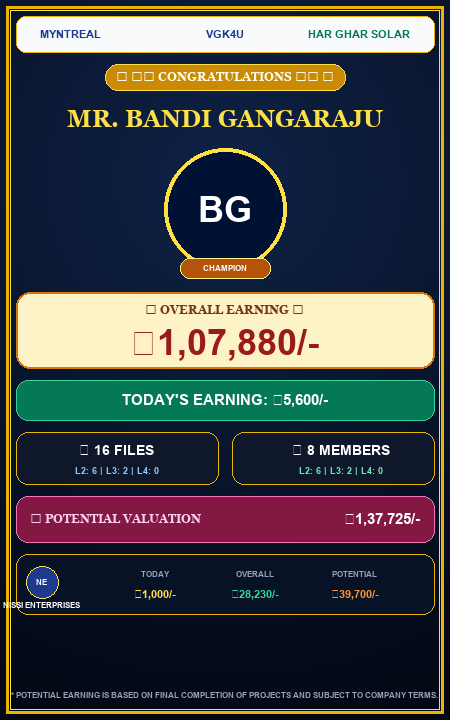
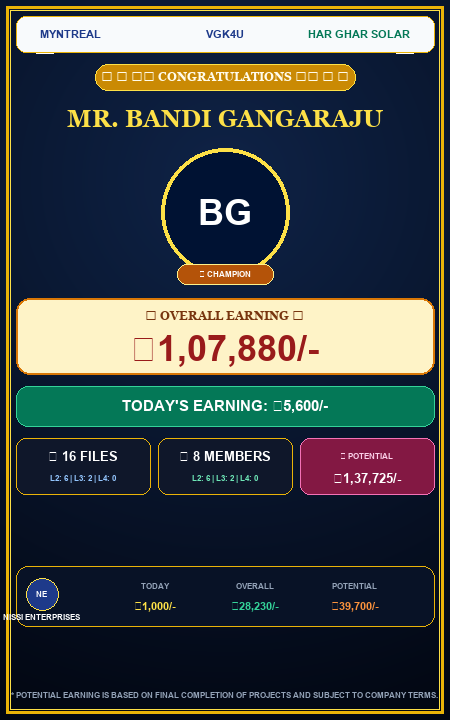
feat(poster): add SVG fireworks, celebration streamers, and 3-column metric layout with Potential Valuation beside Files and Members

diff --git a/MyntReal_Latest/frontend/staff_vgk_members.html b/MyntReal_Latest/frontend/staff_vgk_members.html
@@ -7309,7 +7309,7 @@ function _renderCommDetailTable(partnerId) {
           <div style="text-align:center"><i class="fas fa-circle-notch fa-spin fa-2x mb-2"></i><div>Analyzing and populating values…</div></div>
         </div>
         
-        <!-- Renderable Canvas Wrapper - Fresh Pure HTML/CSS Luxury Celebration Design (450x720px) -->
+        <!-- Renderable Canvas Wrapper - Fresh Pure HTML/CSS Luxury Celebration Design with Fireworks & 3-Column Metrics (450x720px) -->
         <div id="posterCanvasWrapper" style="width:450px;height:720px;background:radial-gradient(circle at 50% 25%, #0f2347 0%, #061126 60%, #020610 100%);border:5px double #eab308;border-radius:20px;box-shadow:0 20px 60px rgba(0,0,0,0.9), 0 0 40px rgba(234,179,8,0.35);position:relative;box-sizing:border-box;color:#ffffff;font-family:'Segoe UI',Roboto,Helvetica,sans-serif;user-select:none;flex-shrink:0;padding:16px;display:flex;flex-direction:column;align-items:center;overflow:hidden">
           
           <div id="prevName" style="display:none"></div>
@@ -7322,6 +7322,31 @@ function _renderCommDetailTable(partnerId) {
           <!-- Background Sparkle Particles Overlay -->
           <div style="position:absolute;inset:0;background-image:radial-gradient(2px 2px at 20px 30px, #ffd700, transparent), radial-gradient(2px 2px at 40px 70px, #ffffff, transparent), radial-gradient(1.5px 1.5px at 90px 40px, #fde047, transparent), radial-gradient(2px 2px at 160px 120px, #ffffff, transparent), radial-gradient(1.5px 1.5px at 230px 80px, #ffd700, transparent), radial-gradient(2px 2px at 310px 50px, #ffffff, transparent), radial-gradient(2px 2px at 380px 110px, #fde047, transparent), radial-gradient(1.5px 1.5px at 420px 30px, #ffffff, transparent), radial-gradient(2px 2px at 50px 250px, #ffd700, transparent), radial-gradient(2px 2px at 400px 280px, #ffffff, transparent), radial-gradient(1.5px 1.5px at 30px 500px, #fde047, transparent), radial-gradient(2px 2px at 420px 520px, #ffffff, transparent);opacity:0.6;pointer-events:none;z-index:1"></div>
 
+          <!-- Firework Bursts (SVG Fireworks Graphics) -->
+          <svg style="position:absolute;top:20px;left:10px;width:75px;height:75px;pointer-events:none;z-index:1" viewBox="0 0 100 100">
+            <g stroke="#fde047" stroke-width="2.5" stroke-linecap="round">
+              <line x1="50" y1="10" x2="50" y2="30"/><line x1="50" y1="70" x2="50" y2="90"/>
+              <line x1="10" y1="50" x2="30" y2="50"/><line x1="70" y1="50" x2="90" y2="50"/>
+              <line x1="22" y1="22" x2="36" y2="36"/><line x1="64" y1="64" x2="78" y2="78"/>
+              <line x1="22" y1="78" x2="36" y2="64"/><line x1="64" y1="36" x2="78" y2="22"/>
+            </g>
+            <circle cx="50" cy="50" r="5" fill="#eab308"/>
+            <circle cx="50" cy="18" r="3" fill="#ffffff"/><circle cx="50" cy="82" r="3" fill="#ffffff"/>
+            <circle cx="18" cy="50" r="3" fill="#ffffff"/><circle cx="82" cy="50" r="3" fill="#ffffff"/>
+          </svg>
+
+          <svg style="position:absolute;top:20px;right:10px;width:75px;height:75px;pointer-events:none;z-index:1" viewBox="0 0 100 100">
+            <g stroke="#fbbf24" stroke-width="2.5" stroke-linecap="round">
+              <line x1="50" y1="10" x2="50" y2="30"/><line x1="50" y1="70" x2="50" y2="90"/>
+              <line x1="10" y1="50" x2="30" y2="50"/><line x1="70" y1="50" x2="90" y2="50"/>
+              <line x1="22" y1="22" x2="36" y2="36"/><line x1="64" y1="64" x2="78" y2="78"/>
+              <line x1="22" y1="78" x2="36" y2="64"/><line x1="64" y1="36" x2="78" y2="22"/>
+            </g>
+            <circle cx="50" cy="50" r="5" fill="#f59e0b"/>
+            <circle cx="50" cy="18" r="3" fill="#ffffff"/><circle cx="50" cy="82" r="3" fill="#ffffff"/>
+            <circle cx="18" cy="50" r="3" fill="#ffffff"/><circle cx="82" cy="50" r="3" fill="#ffffff"/>
+          </svg>
+
           <!-- Content Layer -->
           <div style="position:relative;z-index:2;width:100%;display:flex;flex-direction:column;align-items:center;height:100%">
             
@@ -7332,21 +7357,21 @@ function _renderCommDetailTable(partnerId) {
               <div style="font-weight:800;font-size:11.5px;color:#047857">HAR GHAR SOLAR</div>
             </div>
 
-            <!-- 2. Congratulations Ribbon Badge -->
-            <div style="background:linear-gradient(135deg, #854d0e 0%, #ca8a04 50%, #854d0e 100%);border:1.5px solid #fde047;color:#fffbeb;font-family:Georgia,serif;font-size:12px;font-weight:900;letter-spacing:2px;padding:4px 20px;border-radius:30px;box-shadow:0 4px 14px rgba(202,138,4,0.45);margin-bottom:10px;text-transform:uppercase">👑 ★★ CONGRATULATIONS ★★ 👑</div>
+            <!-- 2. Congratulations Ribbon Badge with Celebration Streamers -->
+            <div style="background:linear-gradient(135deg, #854d0e 0%, #ca8a04 50%, #854d0e 100%);border:1.5px solid #fde047;color:#fffbeb;font-family:Georgia,serif;font-size:12px;font-weight:900;letter-spacing:2px;padding:4px 20px;border-radius:30px;box-shadow:0 4px 14px rgba(202,138,4,0.45);margin-bottom:10px;text-transform:uppercase">🎉 👑 ★★ CONGRATULATIONS ★★ 👑 🎉</div>
 
             <!-- 3. Member Name (3D Gold Typography) -->
             <div style="width:100%;text-align:center;margin-bottom:10px">
-              <div id="prevSubtitle" style="font-size:25px;font-weight:950;background:linear-gradient(180deg,#ffffff 0%,#fef08a 45%,#eab308 100%);-webkit-background-clip:text;-webkit-text-fill-color:transparent;filter:drop-shadow(0 2px 8px rgba(234,179,8,0.6));font-family:Georgia,serif;text-transform:uppercase;letter-spacing:0.8px;line-height:1.2">MR. BANDI GANGARAJU</div>
+              <div id="prevSubtitle" style="font-size:26px;font-weight:950;background:linear-gradient(180deg,#ffffff 0%,#fef08a 45%,#eab308 100%);-webkit-background-clip:text;-webkit-text-fill-color:transparent;filter:drop-shadow(0 2px 8px rgba(234,179,8,0.6));font-family:Georgia,serif;text-transform:uppercase;letter-spacing:0.8px;line-height:1.2">MR. BANDI GANGARAJU</div>
             </div>
 
             <!-- 4. Member Profile Photo inside Golden Wreath Ring -->
-            <div style="position:relative;width:122px;height:122px;margin-bottom:14px">
-              <div style="width:122px;height:122px;border-radius:50%;border:3.5px solid #fde047;overflow:hidden;background:#001233;box-shadow:0 0 25px rgba(234,179,8,0.65);display:flex;align-items:center;justify-content:center">
+            <div style="position:relative;width:128px;height:128px;margin-bottom:14px">
+              <div style="width:128px;height:128px;border-radius:50%;border:4px solid #fde047;overflow:hidden;background:#001233;box-shadow:0 0 28px rgba(234,179,8,0.7);display:flex;align-items:center;justify-content:center">
                 <img id="prevImg" src="" crossorigin="anonymous" style="width:100%;height:100%;object-fit:cover;object-position:center 20%;display:none">
-                <div id="prevAvatar" style="width:100%;height:100%;display:flex;align-items:center;justify-content:center;background:linear-gradient(135deg,#1d4ed8,#7c3aed);color:white;font-size:38px;font-weight:900">BG</div>
+                <div id="prevAvatar" style="width:100%;height:100%;display:flex;align-items:center;justify-content:center;background:linear-gradient(135deg,#1d4ed8,#7c3aed);color:white;font-size:40px;font-weight:900">BG</div>
               </div>
-              <div style="position:absolute;bottom:-7px;left:50%;transform:translateX(-50%);background:linear-gradient(135deg,#b45309,#f59e0b,#b45309);border:1px solid #fef08a;color:#ffffff;font-size:9.5px;font-weight:900;padding:2px 14px;border-radius:12px;letter-spacing:1.2px;white-space:nowrap;box-shadow:0 3px 8px rgba(0,0,0,0.5)">CHAMPION</div>
+              <div style="position:absolute;bottom:-7px;left:50%;transform:translateX(-50%);background:linear-gradient(135deg,#b45309,#f59e0b,#b45309);border:1px solid #fef08a;color:#ffffff;font-size:9.5px;font-weight:900;padding:2px 14px;border-radius:12px;letter-spacing:1.2px;white-space:nowrap;box-shadow:0 3px 8px rgba(0,0,0,0.5)">🏆 CHAMPION</div>
             </div>
 
             <!-- 5. Overall Earning Plaque (Centerpiece) -->
@@ -7356,32 +7381,32 @@ function _renderCommDetailTable(partnerId) {
             </div>
 
             <!-- 6. Today's Earning Banner Card -->
-            <div style="width:100%;background:linear-gradient(135deg, #064e3b 0%, #047857 50%, #065f46 100%);border:1.5px solid #34d399;border-radius:12px;padding:8px 14px;text-align:center;margin-bottom:10px;box-shadow:0 4px 15px rgba(4,120,87,0.4)">
+            <div style="width:100%;background:linear-gradient(135deg, #064e3b 0%, #047857 50%, #065f46 100%);border:1.5px solid #34d399;border-radius:12px;padding:8px 14px;text-align:center;margin-bottom:12px;box-shadow:0 4px 15px rgba(4,120,87,0.4)">
               <div style="font-size:15px;font-weight:900;color:#ffffff;text-transform:uppercase;letter-spacing:0.5px"><span id="prevTodayLabelText">Today's Earning</span>: <span id="prevTotalToday">₹5,600/-</span></div>
             </div>
 
-            <!-- 7. Performance Metrics 2 Grid Cards -->
-            <div style="width:100%;display:grid;grid-template-columns:1fr 1fr;gap:10px;margin-bottom:10px">
-              <div style="background:rgba(15,23,42,0.8);border:1.5px solid rgba(234,179,8,0.4);border-radius:12px;padding:8px 10px;text-align:center">
-                <div id="prevFiles" style="font-size:14.5px;font-weight:950;color:#ffffff;margin-bottom:2px">16 FILES</div>
-                <div id="prevTeamBreakupFiles" style="font-size:9.5px;font-weight:800;color:#93c5fd">L2: 6 | L3: 2 | L4: 0</div>
+            <!-- 7. 3-Column Metrics Grid (FILES | MEMBERS | POTENTIAL VALUATION) -->
+            <div style="width:100%;display:grid;grid-template-columns:1fr 1fr 1.15fr;gap:8px;margin-bottom:12px">
+              <!-- Files Card -->
+              <div style="background:rgba(15,23,42,0.85);border:1.5px solid rgba(234,179,8,0.45);border-radius:12px;padding:8px 6px;text-align:center">
+                <div id="prevFiles" style="font-size:13.5px;font-weight:950;color:#ffffff;margin-bottom:2px">16 FILES</div>
+                <div id="prevTeamBreakupFiles" style="font-size:8.5px;font-weight:800;color:#93c5fd">L2: 6 | L3: 2 | L4: 0</div>
               </div>
-              <div style="background:rgba(15,23,42,0.8);border:1.5px solid rgba(234,179,8,0.4);border-radius:12px;padding:8px 10px;text-align:center">
-                <div id="prevOverall" style="font-size:14.5px;font-weight:950;color:#ffffff;margin-bottom:2px">8 MEMBERS</div>
-                <div id="prevTeamBreakup" style="font-size:9.5px;font-weight:800;color:#6ee7b7">L2: 6 | L3: 2 | L4: 0</div>
+              
+              <!-- Members Card -->
+              <div style="background:rgba(15,23,42,0.85);border:1.5px solid rgba(234,179,8,0.45);border-radius:12px;padding:8px 6px;text-align:center">
+                <div id="prevOverall" style="font-size:13.5px;font-weight:950;color:#ffffff;margin-bottom:2px">8 MEMBERS</div>
+                <div id="prevTeamBreakup" style="font-size:8.5px;font-weight:800;color:#6ee7b7">L2: 6 | L3: 2 | L4: 0</div>
+              </div>
+
+              <!-- Potential Valuation Card (Placed beside Files & Members) -->
+              <div style="background:linear-gradient(135deg, rgba(112,26,117,0.85), rgba(131,24,67,0.85));border:1.5px solid #f472b6;border-radius:12px;padding:8px 6px;text-align:center">
+                <div style="font-size:8.5px;font-weight:900;color:#fbcfe8;text-transform:uppercase;letter-spacing:0.5px">💰 POTENTIAL</div>
+                <div id="prevPotential" style="font-size:13.5px;font-weight:950;color:#ffffff;margin-top:2px">₹1,37,725/-</div>
               </div>
             </div>
 
-            <!-- 8. Potential Valuation Banner -->
-            <div style="width:100%;background:linear-gradient(135deg, #701a75 0%, #831843 50%, #500724 100%);border:1.5px solid #f472b6;border-radius:12px;padding:8px 14px;display:flex;align-items:center;justify-content:space-between;margin-bottom:10px;box-shadow:0 4px 15px rgba(131,24,67,0.4)">
-              <div style="display:flex;align-items:center;gap:8px">
-                <span style="font-size:20px">💰</span>
-                <span style="font-size:11px;font-weight:900;color:#fbcfe8;letter-spacing:1px">POTENTIAL VALUATION</span>
-              </div>
-              <div id="prevPotential" style="font-size:18px;font-weight:950;color:#ffffff">₹1,37,725/-</div>
-            </div>
-
-            <!-- 9. Senior Referrer Card Row -->
+            <!-- 8. Senior Referrer Card Row -->
             <div id="prevSeniorRow" style="width:100%;background:rgba(8,18,38,0.9);border:1.5px solid rgba(234,179,8,0.5);border-radius:12px;padding:8px 10px;display:flex;align-items:center;justify-content:space-between;margin-bottom:8px">
               <div style="display:flex;align-items:center;gap:8px;width:125px">
                 <div style="width:34px;height:34px;border-radius:50%;background:#1e3a8a;border:1.5px solid #fde047;color:white;font-size:12px;font-weight:900;display:flex;align-items:center;justify-content:center;flex-shrink:0;overflow:hidden">
@@ -7406,7 +7431,7 @@ function _renderCommDetailTable(partnerId) {
               </div>
             </div>
 
-            <!-- 10. Footer Terms -->
+            <!-- 9. Footer Terms -->
             <div style="font-size:7.5px;color:#94a3b8;text-align:center;letter-spacing:0.3px;margin-top:auto">
               * POTENTIAL EARNING IS BASED ON FINAL COMPLETION OF PROJECTS AND SUBJECT TO COMPANY TERMS.
             </div>
